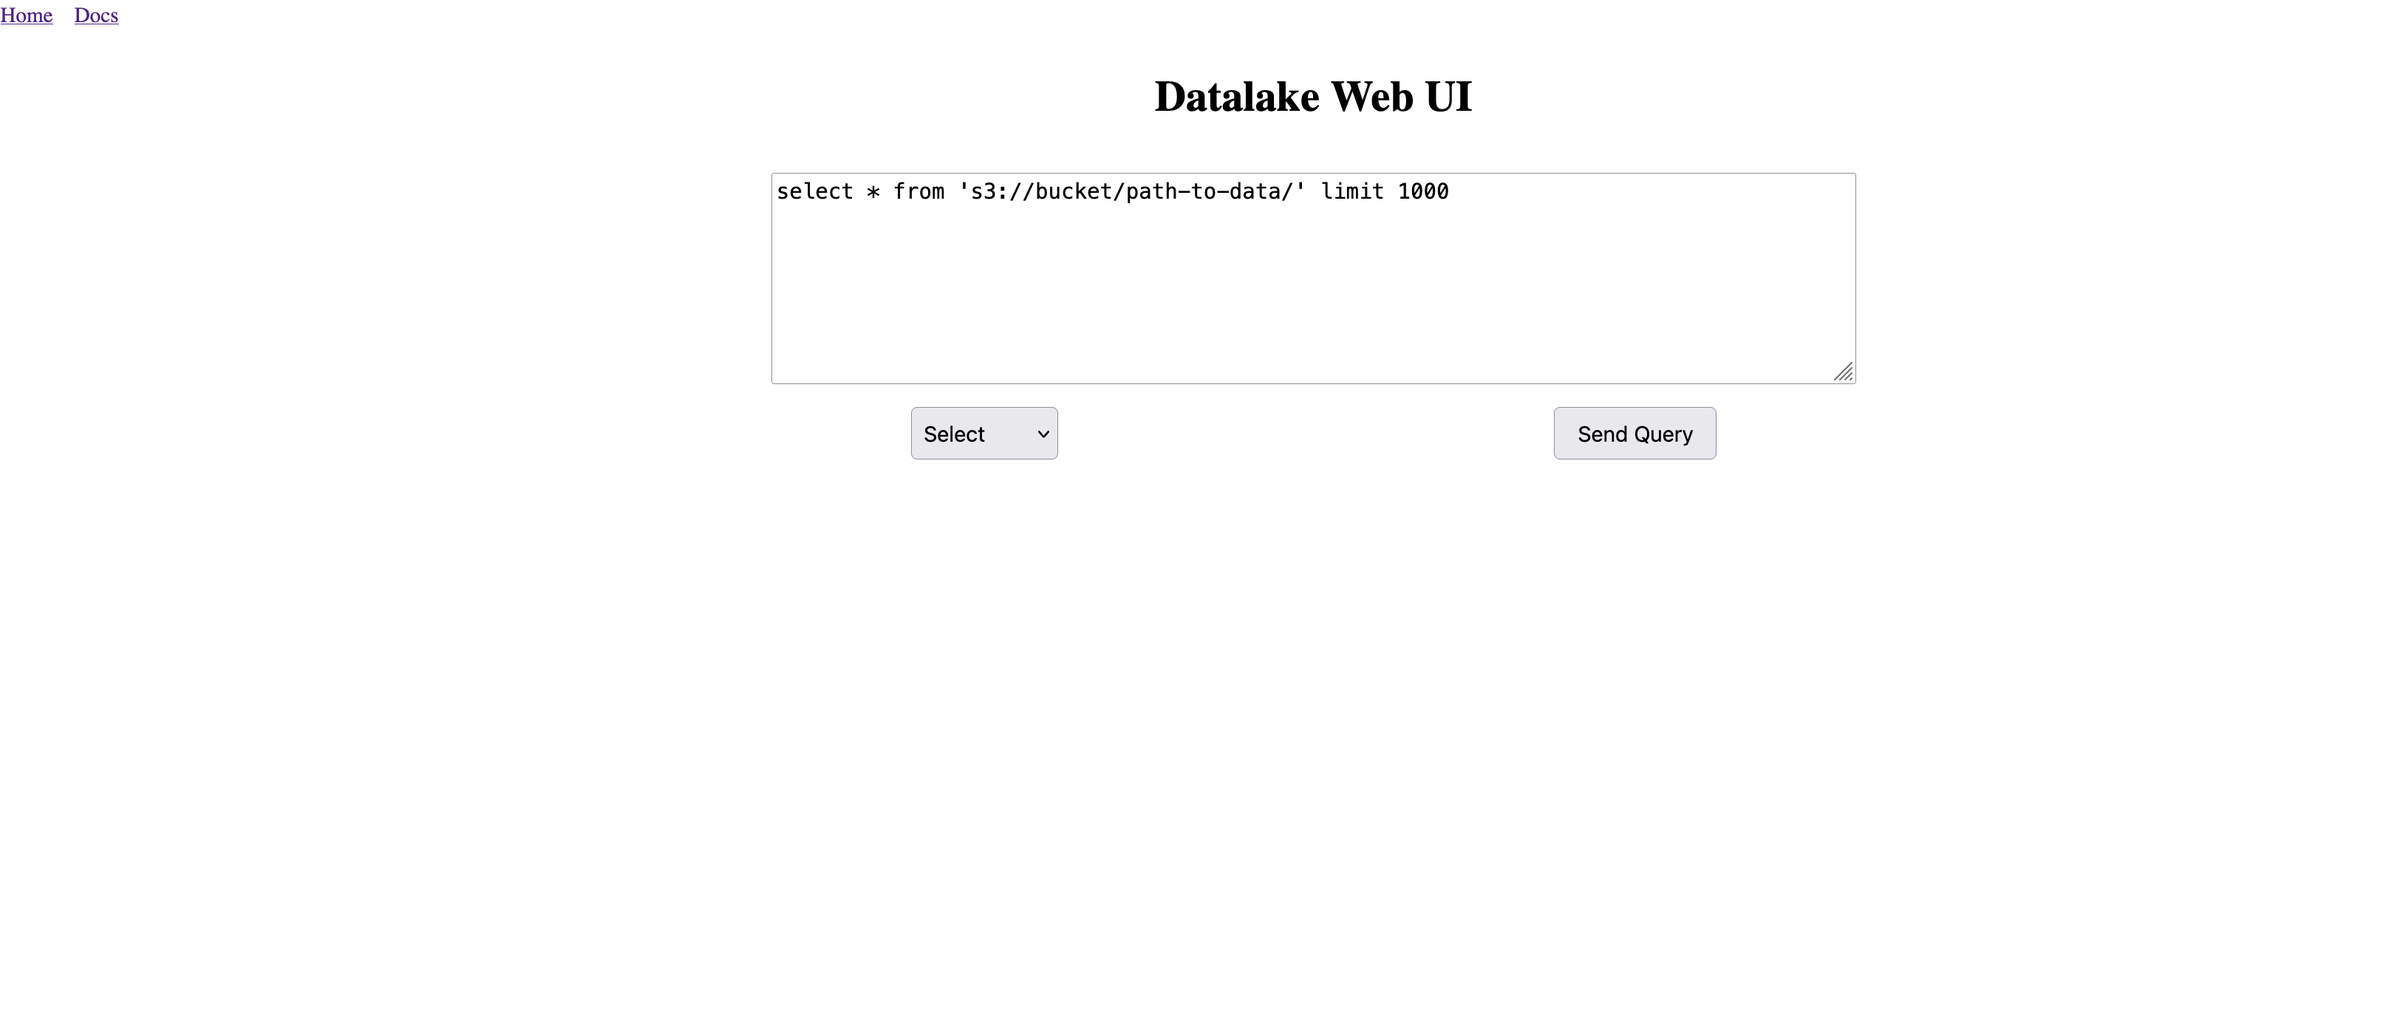
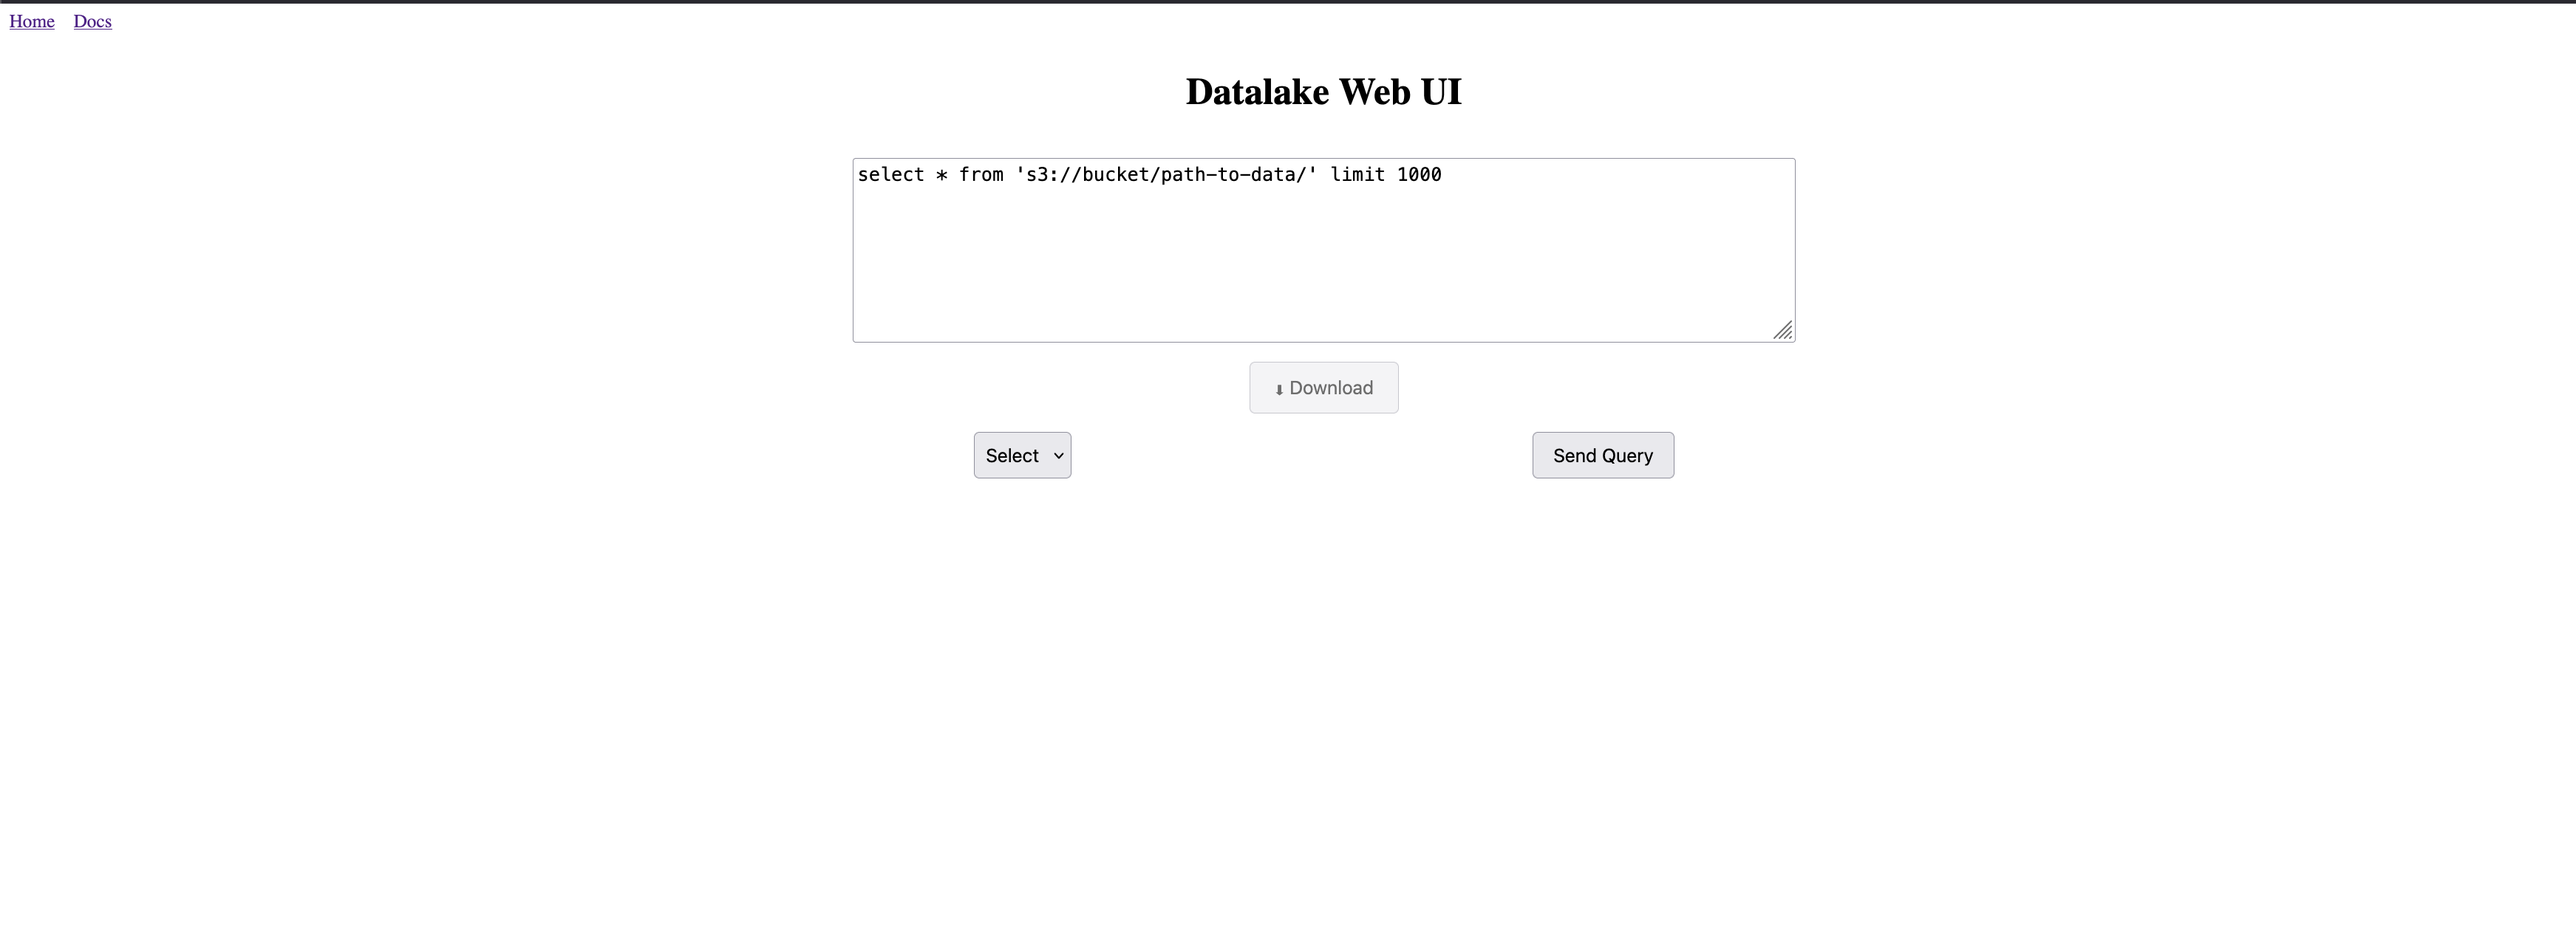
feat: download button when parquet is ready

diff --git a/datalake-web-ui/src/pages/home.rs b/datalake-web-ui/src/pages/home.rs
@@ -15,7 +15,7 @@ struct ApiRequest {
 
 #[derive(Debug, Deserialize)]
 struct ApiResponse {
-    pub _result_parquet: Value, //#TODO
+    pub result_parquet: Value, 
     pub result_json: Value,
 }
 
@@ -25,7 +25,8 @@ pub fn Home() -> impl IntoView {
     let (mode, set_mode) = signal(Mode::Select); // mode
     let (is_loading, set_is_loading) = signal(false); // spinner
     let (_result, set_result) = signal(None::<String>); // select result tabular format from select opeation
-    let (url, set_url) = signal(None::<String>); 
+    let (url, set_url) = signal(None::<String>); // json url
+    let (parquet_url, set_parquet_url) = signal(None::<String>); // parquet url
     let (error, set_error) = signal(None::<String>); // error msg
 
     let send_request = move |_| {
@@ -85,18 +86,26 @@ pub fn Home() -> impl IntoView {
                 Mode::Select => {
                     match response.json::<ApiResponse>().await {
                         Ok(resp) => {
-                            let presigned_url = resp
+                            let json_url = resp
                                 .result_json
                                 .as_str()
                                 .expect("result_json is not a string")
                                 .to_string();
 
-                            log!("Presigned url received: {}", presigned_url);
+                            let parquet_url = resp
+                                .result_parquet
+                                .as_str()
+                                .expect("result_parquet is not a string")
+                                .to_string();
+
+                            log!("Presigned json_url received: {}", json_url);
+                            log!("Presigned parquet_url received: {}", parquet_url);
                             log!("Start polling");
 
                             spawn_local(async move {
+                                // Poll JSON
                                 loop {
-                                    let Ok(resp) = Request::get(&presigned_url).send().await else {
+                                    let Ok(resp) = Request::get(&json_url).send().await else {
                                         log!("Still waiting...");
                                         TimeoutFuture::new(1000).await;
                                         continue;
@@ -104,9 +113,21 @@ pub fn Home() -> impl IntoView {
 
                                     if resp.ok() {
                                         log!("Presigned URL is ready");
-                                        set_url.set(Some(presigned_url));
+                                        set_url.set(Some(json_url));
                                         break;
                                     }
+                                }
+
+                                // Poll PARQUET
+                                loop {
+                                    if let Ok(resp) = Request::get(&parquet_url).send().await {
+                                        if resp.ok() {
+                                            log!("PARQUET URL ready");
+                                            set_parquet_url.set(Some(parquet_url.clone()));
+                                            break;
+                                        }
+                                    }
+                                    TimeoutFuture::new(1000).await;
                                 }
                             });
                         },
@@ -117,39 +138,12 @@ pub fn Home() -> impl IntoView {
                     }
                 }
                 _ => unimplemented!()
-                // Mode::Download => match response.json::<ApiResponse>().await {
-                //     Ok(resp) => {
-                //         let presigned_url = resp.result_parquet.to_string();
-                //         log!("Presigned url received: {}", presigned_url);
-                //         log!("Start polling");
-                //         spawn_local(async move {
-                //             loop {
-                //                 let Ok(resp) = Request::get(&presigned_url).send().await else {
-                //                     log!("Still waiting...");
-                //                     TimeoutFuture::new(1000).await;
-                //                     continue;
-                //                 };
-                //                 if resp.ok() {
-                //                     log!("Presigned URL is ready");
-                //                     set_url.set(Some(presigned_url));
-                //                     set_is_loading.set(false);
-                //                     break;
-                //                 }
-                //             }
-                //         });
-                //     }
-                //     Err(e) => {
-                //         set_result.set(None);
-                //         set_error.set(Some(format!("Failed to parse response: {e}")));
-                //         set_is_loading.set(false);
-                //     }
-                // },
             }
         });
     };
 
-    let download_data = move |_| {
-        if let Some(url) = url.get_untracked() {
+    let download_data = move || {
+        if let Some(url) = parquet_url.get_untracked() {
             if let Some(document) = window().document() {
                 match document.create_element("a") {
                     Ok(element) => {
@@ -206,23 +200,34 @@ pub fn Home() -> impl IntoView {
             // error msg
             <ErrorMessage error=error />
 
+            // download parquet button
+            <button
+                style="
+                    padding: 10px 20px;
+                    font-size: 16px;
+                    opacity: {if parquet_url.get().is_some() { 1 } else { 0.5 }};
+                    cursor:  {if parquet_url.get().is_some() { pointer } else { not-allowed }};
+                "
+                disabled=move || parquet_url.get().is_none()
+                on:click=move |_| {
+                    if parquet_url.get().is_some() { download_data(); }
+                }
+            >
+                "⬇ Download"
+            </button>
+
             // operation type
             <OperationPanel
                 mode=mode
                 set_mode=set_mode
                 send_request=send_request
                 is_loading=is_loading
-                modes=vec![Mode::Select, Mode::Download]
+                modes=vec![Mode::Select] // only select mode is available
             />
             
             // select result
             <Show when=move || mode.get() == Mode::Select>
                 <SelectResult url=url set_is_loading_global=set_is_loading />
-            </Show>
-
-            // download result
-            <Show when=move || mode.get() == Mode::Download>
-                <DownloadResult download_data=download_data url=url />
             </Show>
         </div>
     }

diff --git a/datalake-web-ui/src/components/mod.rs b/datalake-web-ui/src/components/mod.rs
@@ -1,12 +1,10 @@
 mod error_msg;
-mod download_result;
 mod operation;
 mod select_result;
 mod spinner;
 mod query_editor;
 
 pub use error_msg::*;
-pub use download_result::*;
 pub use operation::*;
 pub use select_result::*;
 pub use spinner::*;
